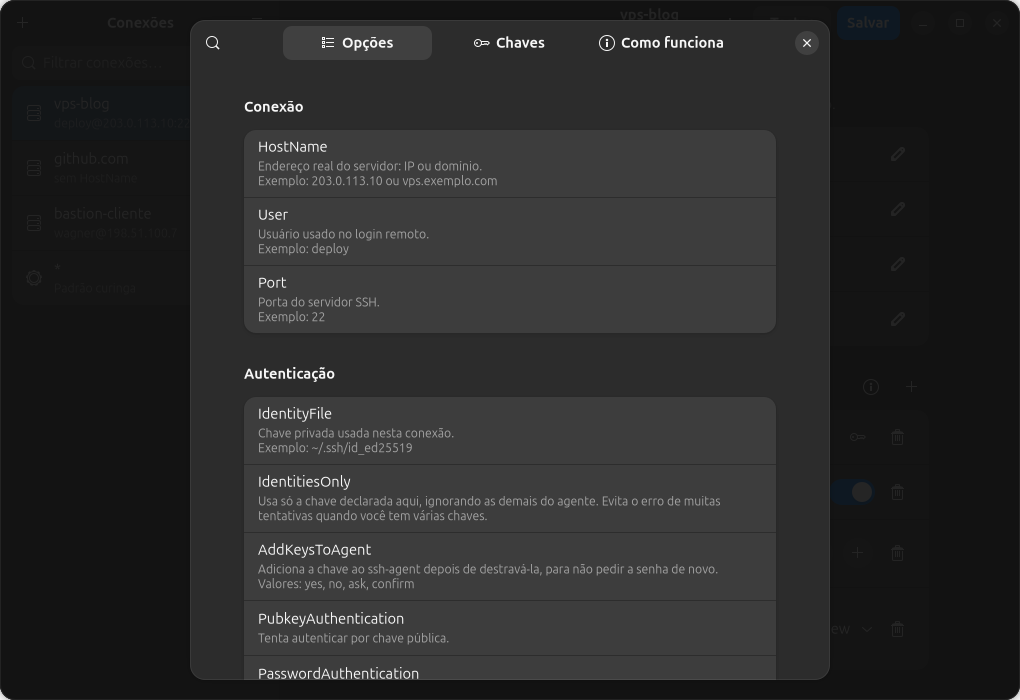
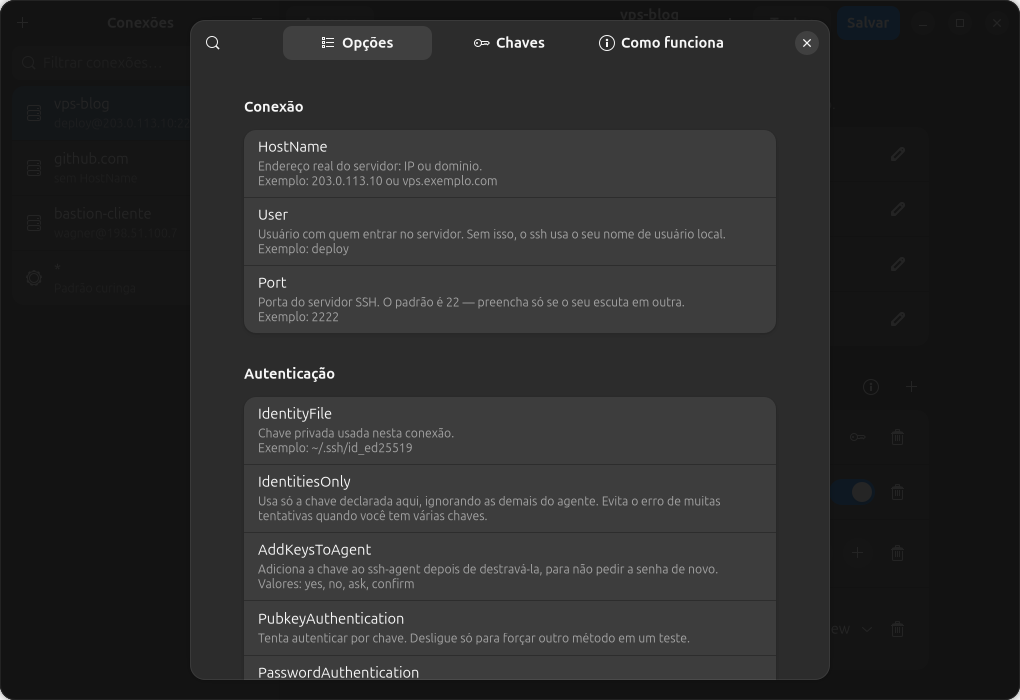
docs: retake the README screenshots and show the guide's commands
The images dated from July and predated Acessar. They are taken again
from the current interface, still from the sample config in a throwaway
HOME, and a fourth shows the key guide with its command blocks.

libadwaita takes the accent colour and the colour scheme from the
desktop, so the tool now pins stock Adwaita, dark with the blue accent,
rather than taking the colours of whoever runs it.

The metainfo feature list mentions sorting and the copy buttons.

diff --git a/tools/screenshot.py b/tools/screenshot.py
@@ -10,6 +10,7 @@ images never show anybody's real servers.
 
 from __future__ import annotations
 
+import os
 import sys
 import tempfile
 from collections.abc import Callable, Iterator
@@ -22,6 +23,12 @@ gi.require_version("Gsk", "4.0")
 gi.require_version("Adw", "1")
 
 from gi.repository import Adw, GLib, Gsk, Gtk  # noqa: E402
+
+# libadwaita takes the accent colour and the light or dark preference from the
+# desktop, so without these the README would show whatever this machine's
+# owner chose. Stock Adwaita, dark, is what every image is taken in.
+os.environ.setdefault("ADW_DEBUG_COLOR_SCHEME", "prefer-dark")
+os.environ.setdefault("ADW_DEBUG_ACCENT_COLOR", "blue")
 
 WIDTH, HEIGHT = 1020, 700
 SETTLE_MS = 700
@@ -100,16 +107,24 @@ def steps(window: Gtk.Window, out: Path) -> Iterator[Callable[[], None]]:
             )
         ).present(window)
 
+    help_dialog = HelpDialog()
+
     def help_page() -> None:
         capture(window, out / "teste.png")
-        HelpDialog().present(window)
+        help_dialog.present(window)
+
+    def guide_page() -> None:
+        capture(window, out / "ajuda.png")
+        _options, keys, _about = help_dialog.pages
+        help_dialog.set_visible_page(keys)
 
     def last() -> None:
-        capture(window, out / "ajuda.png")
+        capture(window, out / "guia.png")
 
     yield connection
     yield test_result
     yield help_page
+    yield guide_page
     yield last
 
 

diff --git a/README.md b/README.md
@@ -33,7 +33,8 @@ SSH de você — é te apresentar a ele.
 - **Acessar** abre o seu terminal já rodando `ssh apelido` — o mesmo comando
   que você digitaria. Qual terminal, você escolhe em Preferências (`Ctrl+,`);
   veja [Escolhendo o terminal](#escolhendo-o-terminal-do-acessar)
-- Guia passo a passo de como criar uma chave e instalá-la num servidor
+- Guia passo a passo de como criar uma chave e instalá-la num servidor, com
+  um botão de copiar em cada comando
 
 ### O teste de conexão diz coisa útil
 
@@ -58,6 +59,8 @@ embaixo, dobrada, para quem quiser.
 quando falha) e uma página explicando como o arquivo funciona — incluindo a
 regra que mais surpreende: **o OpenSSH usa a primeira definição que encontrar**,
 não a última.
+
+![O guia de chaves, com cada comando num bloco à parte e um botão de copiar](docs/screenshots/guia.png)
 
 No guia, cada comando fica num bloco à parte, com um botão de copiar por linha.
 Um botão por linha de propósito: em "valide, depois recarregue", o segundo

diff --git a/CHANGELOG.md b/CHANGELOG.md
@@ -61,6 +61,10 @@ format. Versions follow [Semantic Versioning](https://semver.org/spec/v2.0.0.htm
 
 ### Changed
 
+- The README screenshots are taken again from the current interface, Acessar
+  included, and a fourth shows the guide's command blocks. `make screenshots`
+  now pins stock Adwaita — dark, blue accent — instead of taking the colours
+  of whoever runs it.
 - Backups are always `0600`. They were made with `copy2`, which copies the
   config's own permissions, so a config readable by others left behind copies
   readable by others too. They are now created with `O_EXCL` as well: another
